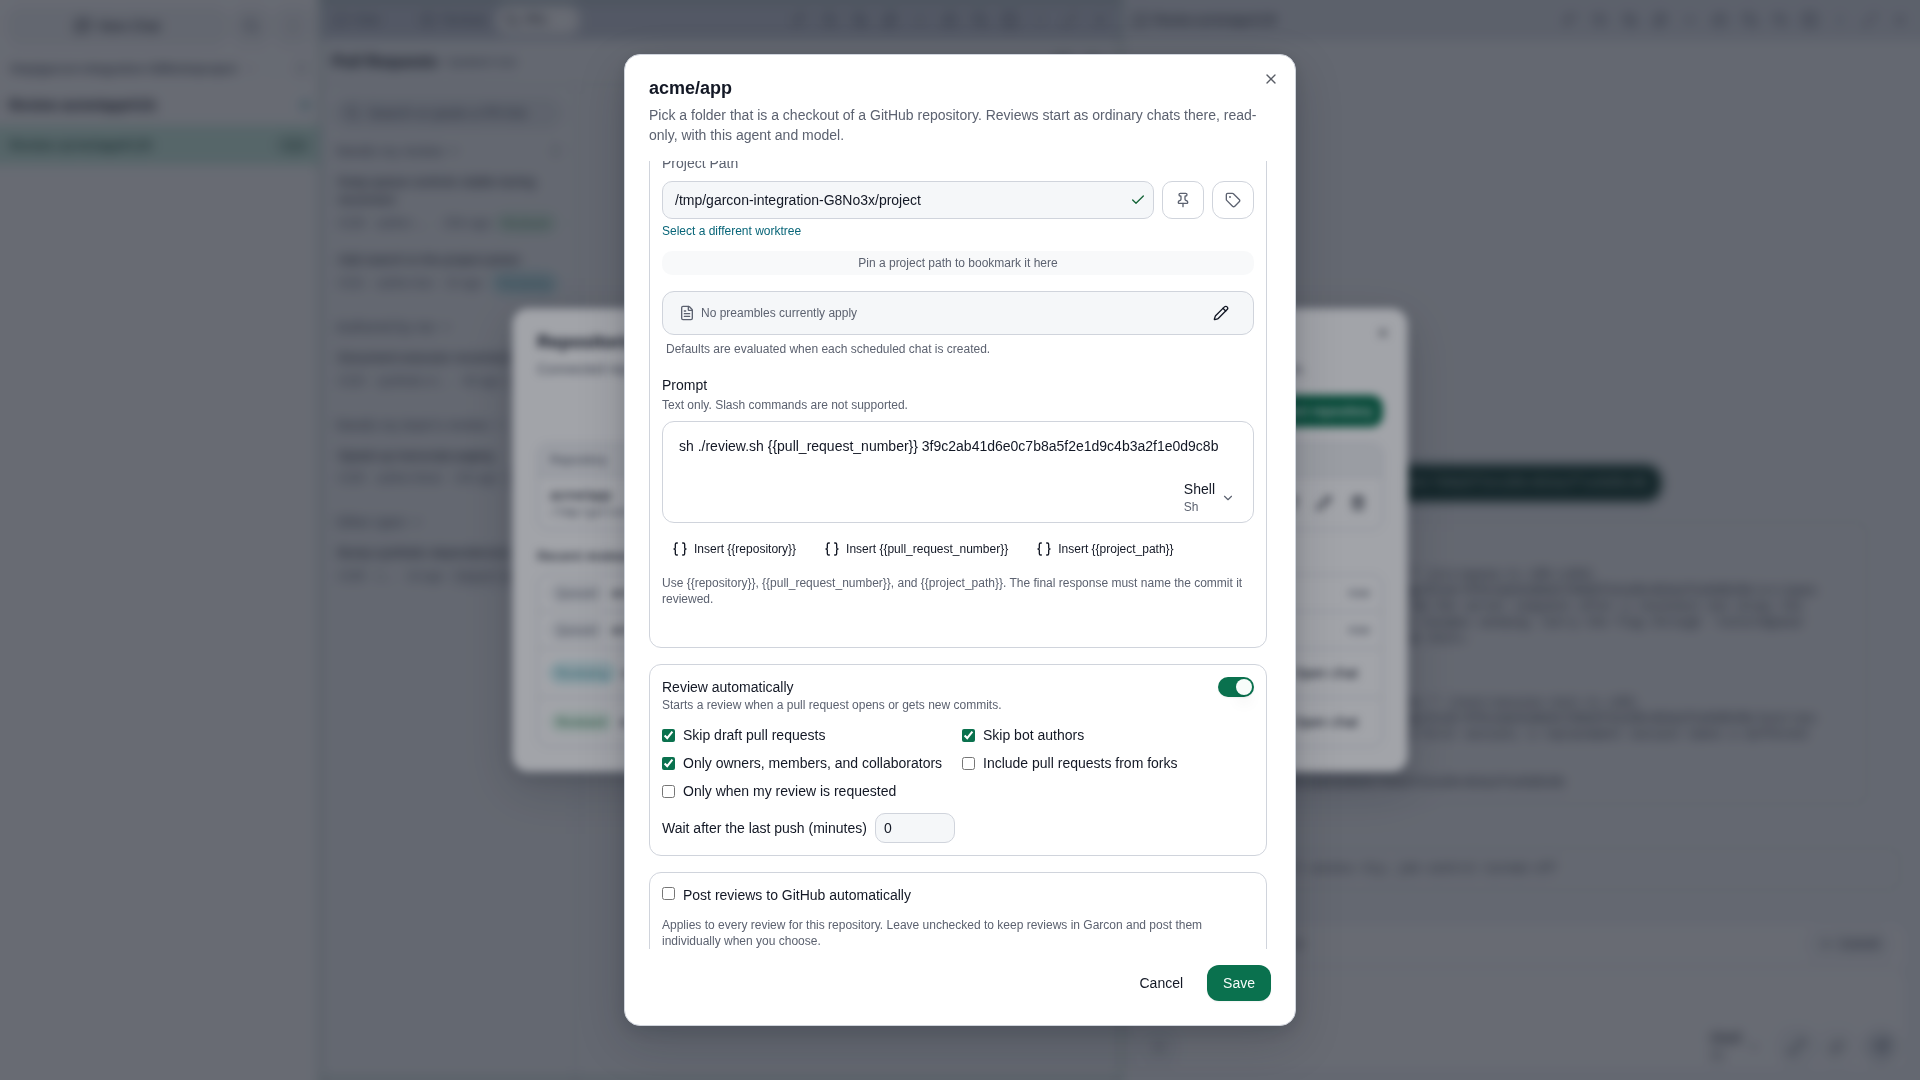
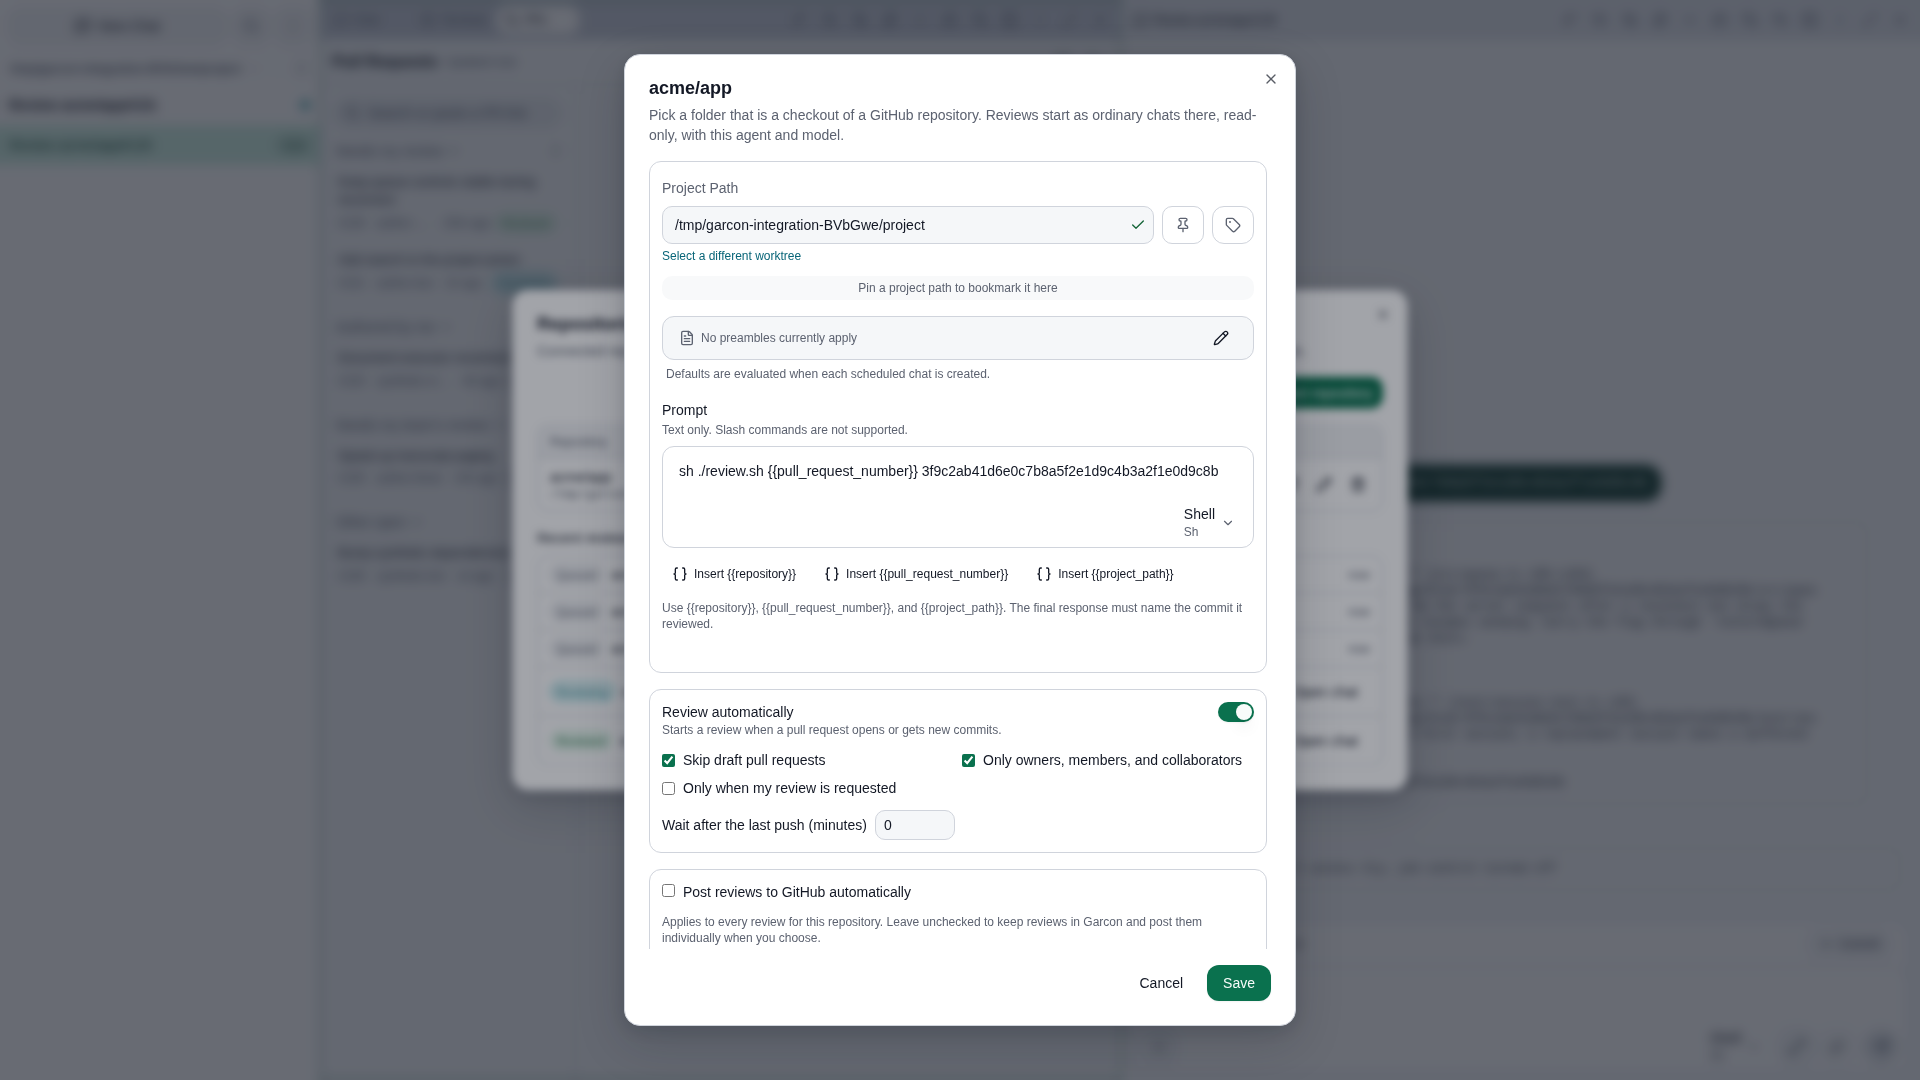
simplify review author and fork policy options

diff --git a/integration-tests/tests/chromium/pull-request-reviews.test.ts b/integration-tests/tests/chromium/pull-request-reviews.test.ts
@@ -72,6 +72,8 @@ test('reviews pull requests in chats and shows them in the GitHub Views inbox', 
     await browserExpect(connectForm.getByRole('button', { name: 'Insert {{pull_request_number}}' })).toBeVisible();
     await browserExpect(connectForm.getByRole('button', { name: 'Insert {{chat_id}}' })).toHaveCount(0);
     await browserExpect(connectForm.getByRole('checkbox', { name: 'Post reviews to GitHub automatically' })).not.toBeChecked();
+    await browserExpect(connectForm.getByRole('checkbox', { name: 'Skip bot authors' })).toHaveCount(0);
+    await browserExpect(connectForm.getByRole('checkbox', { name: 'Include pull requests from forks' })).toHaveCount(0);
     await capture('connect-repository-desktop');
     await page.keyboard.press('Escape');
     await browserExpect(connectForm).toHaveCount(0);
@@ -103,7 +105,7 @@ test('reviews pull requests in chats and shows them in the GitHub Views inbox', 
     await browserExpect(panel.locator('[data-pr-inbox-group="authored-by-me"]')).toContainText('Document executor reconnect limits');
     await browserExpect(panel.locator('[data-pr-inbox-group="needs-team-review"]')).toContainText('Speed up transcript paging');
     await browserExpect(panel.locator('[data-pr-inbox-group="other-open"] [data-pr-inbox-row]')).toHaveCount(1);
-    await browserExpect(panel.locator('[data-pr-inbox-group="other-open"]')).toContainText('Skipped: bot author');
+    await browserExpect(panel.locator('[data-pr-inbox-group="other-open"]')).toContainText('Queued');
 
     phase('select a reviewed pull request');
     await needsReview.getByText('Keep queue controls stable during reconnect').click();
@@ -175,7 +177,7 @@ test('reviews pull requests in chats and shows them in the GitHub Views inbox', 
     await browserExpect.poll(async () => {
       const current = await client.get<PullRequestReviewsSnapshot>('/api/v1/pull-request-reviews');
       return current.inbox.find((entry) => entry.pull.number === 133)?.latestRun?.post.status;
-    }).toBe('posted');
+    }, { timeout: 30_000 }).toBe('posted');
     assertNoBrowserErrors();
   }, undefined, {
     executionBackend: 'in-process',

diff --git a/common/pull-request-reviews.ts b/common/pull-request-reviews.ts
@@ -23,7 +23,7 @@ export function isActivePullRequestReviewRun(state: PullRequestReviewRunState): 
 }
 
 export type PullRequestReviewSkipReason =
-  | 'draft' | 'bot-author' | 'untrusted-author' | 'fork' | 'base-branch' | 'label' | 'too-large'
+  | 'draft' | 'untrusted-author' | 'fork' | 'base-branch' | 'label' | 'too-large'
   | 'review-not-requested' | 'attempts-exhausted' | 'daily-limit' | 'stopped';
 
 export const PULL_REQUEST_REVIEW_PROMPT_MAX_LENGTH = 32_000;
@@ -59,10 +59,8 @@ export const DEFAULT_PULL_REQUEST_REVIEW_PROMPT = [
 
 export interface PullRequestReviewFilters {
   skipDrafts: boolean;
-  skipBots: boolean;
   // Limits automatic review to owners, members, and collaborators.
   trustedAuthorsOnly: boolean;
-  includeForks: boolean;
   // Empty lists place no restriction.
   baseBranches: string[];
   includeLabels: string[];
@@ -89,9 +87,7 @@ export const DEFAULT_PULL_REQUEST_REVIEW_SETTINGS: PullRequestReviewSettings = {
   onlyWhenReviewRequested: false,
   filters: {
     skipDrafts: true,
-    skipBots: true,
     trustedAuthorsOnly: true,
-    includeForks: false,
     baseBranches: [],
     includeLabels: [],
     excludeLabels: [],
@@ -260,15 +256,13 @@ function normalizeFilters(value: unknown): PullRequestReviewFilters | null {
   const includeLabels = filterValues(value.includeLabels);
   const excludeLabels = filterValues(value.excludeLabels);
   if (
-    !bool(value.skipDrafts) || !bool(value.skipBots) || !bool(value.trustedAuthorsOnly) || !bool(value.includeForks)
+    !bool(value.skipDrafts) || !bool(value.trustedAuthorsOnly)
     || !baseBranches || !includeLabels || !excludeLabels
     || value.maxChangedLines !== null && !integerBetween(value.maxChangedLines, 1, 1_000_000)
   ) return null;
   return {
     skipDrafts: value.skipDrafts,
-    skipBots: value.skipBots,
     trustedAuthorsOnly: value.trustedAuthorsOnly,
-    includeForks: value.includeForks,
     baseBranches,
     includeLabels,
     excludeLabels,

diff --git a/server/controller/pull-request-reviews/__tests__/selection.test.ts b/server/controller/pull-request-reviews/__tests__/selection.test.ts
@@ -31,7 +31,8 @@ test.each([
   ['reviews a stable head of a trusted author', pull(), [], { kind: 'review' }],
   ['waits while pushes may still arrive', pull(), [], { kind: 'wait' }, { headObservedAt: NOW - 60_000 }],
   ['skips drafts', pull({ isDraft: true }), [], { kind: 'skip', reason: 'draft' }],
-  ['skips bots', pull({ authorIsBot: true }), [], { kind: 'skip', reason: 'bot-author' }],
+  ['reviews bot authors under the same rules as other authors', pull({ authorIsBot: true }), [], { kind: 'review' }],
+  ['applies the author trust filter to bots', pull({ authorIsBot: true, authorAssociation: 'none' }), [], { kind: 'skip', reason: 'untrusted-author' }],
   ['skips outside contributors', pull({ authorAssociation: 'contributor' }), [], { kind: 'skip', reason: 'untrusted-author' }],
   ['trusts the viewer', pull({ authorAssociation: 'none', authoredByViewer: true }), [], { kind: 'review' }],
   ['skips forks', pull({ isCrossRepository: true }), [], { kind: 'skip', reason: 'fork' }],

diff --git a/server/controller/pull-request-reviews/selection.ts b/server/controller/pull-request-reviews/selection.ts
@@ -31,9 +31,8 @@ export interface AutoReviewInput {
 function filterReason(settings: PullRequestReviewSettings, pull: PullRequestSummary): PullRequestReviewSkipReason | null {
   const { filters } = settings;
   if (filters.skipDrafts && pull.isDraft) return 'draft';
-  if (filters.skipBots && pull.authorIsBot) return 'bot-author';
   if (filters.trustedAuthorsOnly && !pull.authoredByViewer && !TRUSTED_ASSOCIATIONS.has(pull.authorAssociation)) return 'untrusted-author';
-  if (!filters.includeForks && pull.isCrossRepository) return 'fork';
+  if (pull.isCrossRepository) return 'fork';
   if (filters.baseBranches.length > 0 && !filters.baseBranches.includes(pull.baseRefName)) return 'base-branch';
   if (pull.labels.some((label) => filters.excludeLabels.includes(label))) return 'label';
   if (filters.includeLabels.length > 0 && !pull.labels.some((label) => filters.includeLabels.includes(label))) return 'label';

diff --git a/web/src/lib/components/pr/PullRequestRepositoryDialog.svelte b/web/src/lib/components/pr/PullRequestRepositoryDialog.svelte
@@ -125,9 +125,7 @@
 
 	const filterToggles = [
 		{ key: 'skipDrafts', label: m.pull_request_repository_filter_skip_drafts },
-		{ key: 'skipBots', label: m.pull_request_repository_filter_skip_bots },
 		{ key: 'trustedAuthorsOnly', label: m.pull_request_repository_filter_trusted },
-		{ key: 'includeForks', label: m.pull_request_repository_filter_forks },
 	] as const;
 	const promptVariables = {
 		tokens: Object.values(PULL_REQUEST_REVIEW_PROMPT_TOKENS),
@@ -222,7 +220,7 @@
 						{m.pull_request_repository_only_requested()}
 					</label>
 				</div>
-				{#if form.filters.includeForks || !form.filters.trustedAuthorsOnly}
+				{#if !form.filters.trustedAuthorsOnly}
 					<p
 						class="rounded-md border border-status-warning-border bg-status-warning px-3 py-2 text-xs text-status-warning-foreground"
 					>

diff --git a/common/__tests__/pull-request-reviews.test.js b/common/__tests__/pull-request-reviews.test.js
@@ -27,3 +27,15 @@ test('requires an explicit boolean to opt into automatic posting', () => {
     expect(normalizePullRequestReviewSettings({ ...DEFAULT_PULL_REQUEST_REVIEW_SETTINGS, autoPost })).toBeNull();
   }
 });
+
+test('normalizes repository filters without bot or fork preferences', () => {
+  const filters = {
+    skipDrafts: true,
+    trustedAuthorsOnly: true,
+    baseBranches: [],
+    includeLabels: [],
+    excludeLabels: [],
+    maxChangedLines: 5_000,
+  };
+  expect(normalizePullRequestReviewSettings({ ...DEFAULT_PULL_REQUEST_REVIEW_SETTINGS, filters })?.filters).toEqual(filters);
+});

diff --git a/web/src/lib/components/pr/pr-display.ts b/web/src/lib/components/pr/pr-display.ts
@@ -129,7 +129,6 @@ export function reviewChipClass(tone: ReviewChipTone): string {
 export function skipReasonLabel(reason: PullRequestReviewSkipReason): string {
 	const labels: Record<PullRequestReviewSkipReason, () => string> = {
 		draft: m.pull_request_review_skip_draft,
-		'bot-author': m.pull_request_review_skip_bot_author,
 		'untrusted-author': m.pull_request_review_skip_untrusted_author,
 		fork: m.pull_request_review_skip_fork,
 		'base-branch': m.pull_request_review_skip_base_branch,

diff --git a/docs/pull-request-reviews.md b/docs/pull-request-reviews.md
@@ -84,9 +84,10 @@ reads fail instead of publishing a truncated successful scan.
 ## Safety
 
 A pull request is untrusted input to an agent Garcon does not sandbox. By
-default, automatic review skips drafts, bots, authors who are not owners,
-members, or collaborators (the viewer always counts), and pull requests from
-forks. Widening either author filter shows a warning. A manual
+default, automatic review skips drafts and authors who are not owners,
+members, or collaborators (the viewer always counts). Bots follow the same
+author rules as other pull requests. Automatic review always excludes forks.
+Allowing outside contributors shows a warning. A manual
 Review is always allowed. The permission mode is the repository's choice and
 starts from the new-chat default; which mode lets each agent run `gh` and
 `git fetch` unattended is open decision 4 in the issue.
